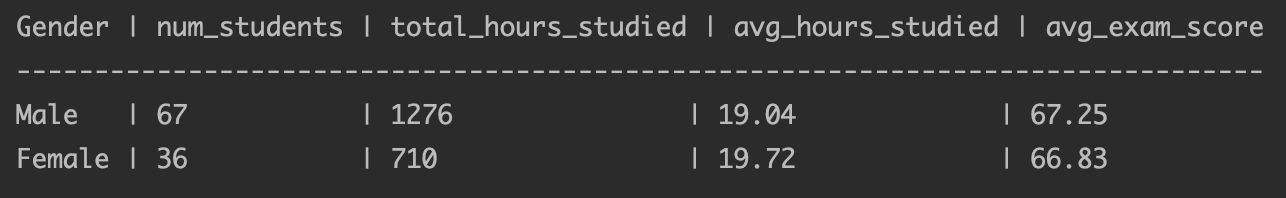
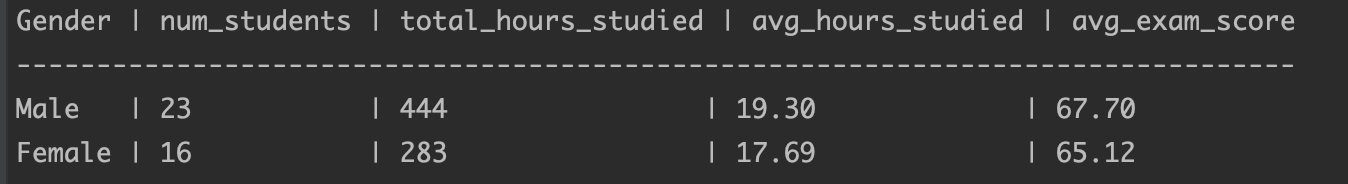
update

diff --git a/main.py b/main.py
@@ -1,40 +1,52 @@
-import sqlite3
-import pandas as pd
 import os
+from dotenv import load_dotenv
+from databricks import sql
 
 
 # Function to connect to the database
-def connect_db(db_name="student.db"):
-    conn = sqlite3.connect(db_name)
-    print(f"Connected to {db_name}")
-    return conn
+def connect_db():
+    load_dotenv()
+    connection = sql.connect(
+        server_hostname=os.getenv("SERVER_HOSTNAME"),
+        http_path=os.getenv("HTTP_PATH"),
+        access_token=os.getenv("DATABRICKS_KEY"),
+    )
+    print("Connected to database")
+    return connection
 
 
 # Function to create a table (Create operation)
-def create_table(conn, create_tables):
+def create_table(cursor, create_tables):
     try:
         for table_name, create_query in create_tables.items():
-            conn.execute(create_query)
+            cursor.execute(create_query)
             print(f"Table {table_name} created successfully!")
+            return "Table created"
 
-    except sqlite3.Error as e:
+    except sql.Error as e:
         print(f"Error creating table: {e}")
 
 
 # Inserting data into the tables
-def insert_data(table_name, dataframe, conn):
-    try:
-        for _, row in dataframe.iterrows():
-            placeholders = ", ".join(["?"] * len(row))
-            columns = ", ".join(row.index)
-            sql = f"INSERT INTO {table_name} ({columns}) VALUES ({placeholders})"
-            conn.execute(sql, tuple(row))
-        print(f"Record inserted successfully of table {table_name}")
-    except sqlite3.Error as e:
-        print(f"Error inserting record: {e}")
+def insert_data(table_name, dataframe, cursor):
+    cursor.execute(f"SELECT * FROM {table_name}")
+    result = cursor.fetchall()
+    if not result:
+        try:
+            for _, row in dataframe.iterrows():
+                placeholders = ", ".join(["?"] * len(row))
+                columns = ", ".join(row.index)
+                sql_command = (
+                    f"INSERT INTO {table_name} ({columns}) VALUES ({placeholders})"
+                )
+                cursor.execute(sql_command, tuple(row))
+            print(f"Record inserted successfully of table {table_name}")
+            return "Record"
+        except sql.Error as e:
+            print(f"Error inserting record: {e}")
 
 
-def run_complex_query(conn):
+def run_complex_query(cursor):
     query = """
     SELECT 
         s.Gender,
@@ -54,7 +66,6 @@ def run_complex_query(conn):
         avg_exam_score DESC;
     """
 
-    cursor = conn.cursor()
     cursor.execute(query)
 
     rows = cursor.fetchall()
@@ -67,7 +78,7 @@ def run_complex_query(conn):
             f"{row[0]:<6} | {row[1]:<12} | {row[2]:<18} | {row[3]:<17.2f} | {row[4]:<14.2f}"
         )
     print("\nQuery executed and results fetched successfully!")
-
+    return "Query Successful"
 
 def main():
     # Load the CSV file
@@ -92,7 +103,7 @@ def main():
     create_tables = {
         "Student": """
         CREATE TABLE IF NOT EXISTS Student (
-            student_id INTEGER PRIMARY KEY AUTOINCREMENT,
+            student_id INTEGER PRIMARY KEY,
             Gender VARCHAR(10),
             Distance_from_Home VARCHAR(10)
         );
@@ -117,21 +128,20 @@ def main():
         """,
     }
 
-    db_name = "student.db"
-    if os.path.exists(db_name):
-        os.remove(db_name)
+    conn = connect_db()
+    cursor = conn.cursor()
+    create_table(cursor, create_tables)
 
-    conn = connect_db(db_name)
-    create_table(conn, create_tables)
+    insert_data("Student", student_data, cursor)
+    insert_data("StudyFactors", study_factors_data, cursor)
+    insert_data("AcademicPerformance", academic_performance_data, cursor)
 
-    insert_data("Student", student_data, conn)
-    insert_data("StudyFactors", study_factors_data, conn)
-    insert_data("AcademicPerformance", academic_performance_data, conn)
+    run_complex_query(cursor)
 
-    run_complex_query(conn)
-
+    cursor.close()
     conn.close()
 
 
 if __name__ == "__main__":
     main()
+

diff --git a/README.md b/README.md
@@ -10,7 +10,18 @@ This project is to design a complex SQL query for a Database
 - Provide an explanation for what the query is doing and the expected results
 
 ## Project Preparation
-1. Build a new database, `student.db`
+1. Connect to `Databricks`
+   1. create a new workspace, and copy `token number`, `Server hostname`, `HTTP path`.
+      2. use the below code to connect to database
+      ```python
+      import os
+      from dotenv import load_dotenv
+      from databricks import sql
+      load_dotenv()
+      connection = sql.connect(server_hostname=os.getenv("SERVER_HOSTNAME"),
+                              http_path=os.getenv("HTTP_PATH"),
+                              access_token=os.getenv("DATABRICKS_KEY"))
+      ```
 2. Create necessary tables, `Student`, `StudyFactors`, `AcademicPerformance`
    1. The `Student` table stores basic information about each student, such as their unique ID, gender, and distance from home. This table serves as the foundation for associating each student with other study and performance data.
    2. The `StudyFactors` table stores information related to each student's study habits, including how much they study, how often they attend classes, and how many hours they sleep.
@@ -43,10 +54,10 @@ average hours studied, and average exam scores** for each gender. It **joins the
 tables using the `student_id`** to gather this data, then groups the results by gender, **sorts the results by average exam score in descending order**, and displays the gender with the highest average exam score first.
 
 
-| Gender | num_students | total_hours_studied | avg_hours_studied | avg_exam_score |
-|--------|--------------|---------------------|-------------------|----------------|
-| Male   | 67           | 1276                | 19.04             | 67.25          |
-| Female | 36           | 710                 | 19.72             | 66.83          |
+| Gender | num_students | total_hours_studied  | avg_hours_studied | avg_exam_score |
+|--------|--------------|----------------------|-------------------|----------------|
+| Male   | 23           | 444                  | 19.30             | 67.70          |
+| Female | 16           | 283                  | 17.69             | 65.12          |
 
 
 ## Screenshot of the Expected Results of Query
